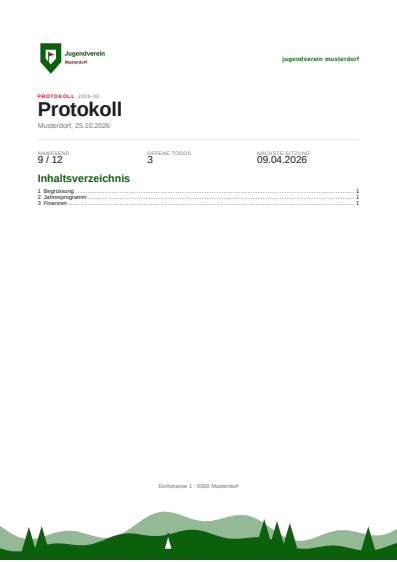
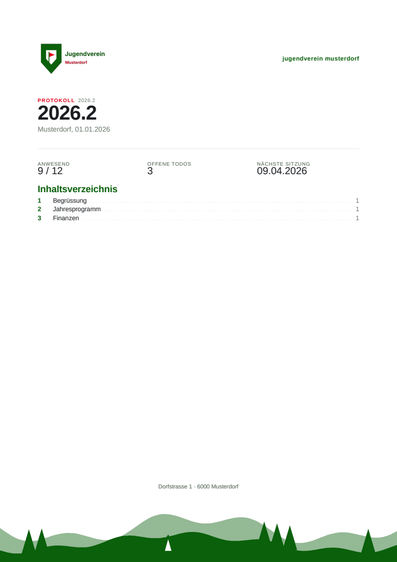
feat(documents): Design «Kreide» näher am Mockup «Protokoll Template v2»
- Grundstil: Aufzählungen mit Punkten statt Strichen.
- Beispiel-Vorlage/-CD: Traktandentitel in Textfarbe mit grüner Nummer, 14/10.5 pt bei 9.5 pt
  Grundschrift, Abschnittsabstand 6.5 mm; Seitenkopf mit kleingeschriebenem Vereinsnamen und
  «Titel · Datum»; Metadaten, Kennzahlen-Beschriftungen und Adresszeile in der Zweitfarbe;
  Inhaltsverzeichnis mit normalem Zeilenabstand; Abstand Titel/Ort korrigiert; Vorschaubild neu.
- Goldens und Studio-Fixtures neu erzeugt (auch für den neuen Abschnittsabstand aus dem
  vorherigen Commit).

Claude-Session: https://claude.ai/code/session_01BdmXtFtuiEmiViEqhvNPRp

diff --git a/backend/app/documents/examples.py b/backend/app/documents/examples.py
@@ -89,18 +89,22 @@ def _kpi_row(prefix: str, *, box: dict[str, Any], **kwargs: Any) -> dict[str, An
     )
 
 
-def _running_master(prefix: str, *, brand_color: str, line_color: str = "$brand.border", line: float = 0.5, dot: bool = False, page_color: str = "$brand.primary", page_bold: bool = True, background: list[dict[str, Any]] | None = None, upper_name: bool = False) -> dict[str, Any]:
+def _running_master(prefix: str, *, brand_color: str, line_color: str = "$brand.border", line: float = 0.5, dot: bool = False, page_color: str = "$brand.primary", page_bold: bool = True, background: list[dict[str, Any]] | None = None, upper_name: bool = False, lower_name: bool = False, meta_color: str = "$brand.muted", meta_separator: bool = False) -> dict[str, Any]:
     """Kopf «Organisation · Titel · Datum» und Fuss «Nummer · Seite x von y» der Inhaltsseiten.
     Die Teile folgen den Kopf-/Fusszeilen-Schaltern des Brand-Profils bzw. der Vorlage
-    (Organisation = Schalter «Logo», wie das Logo der Standard-Seitenvorlage)."""
+    (Organisation = Schalter «Logo», wie das Logo der Standard-Seitenvorlage). ``meta_separator``:
+    «Titel · Datum» statt zwei Einträgen mit Abstand."""
     name_style: dict[str, Any] = {"size": 8, "weight": "bold", "color": brand_color}
     if upper_name:
         name_style.update(transform="upper", letter_spacing=0.4)
+    elif lower_name:
+        name_style.update(transform="lower", letter_spacing=0.2)
     left: list[dict[str, Any]] = []
     if dot:
         left.append(node("container", f"{prefix}-dot", style={"width": "2.2mm", "height": "2.2mm", **_fill(brand_color, radius=1.1)}, visible_if=when("brand.header_show_logo")))
     left.append(label_text(f"{prefix}-org", bind("organization.name"), role="small", style={"text": name_style}, visible_if=when("brand.header_show_logo")))
-    meta_style = {"size": 8, "align": "right", "color": "$brand.muted"}
+    meta_style = {"size": 8, "align": "right", "color": meta_color}
+    separator = [label_text(f"{prefix}-hdr-sep", lit("·"), role="small", style={"text": meta_style}, visible_if={"op": "all", "items": [when("brand.header_show_title"), when("brand.header_show_date")]})] if meta_separator else []
     header = node(
         "header",
         f"{prefix}-hdr",
@@ -109,10 +113,11 @@ def _running_master(prefix: str, *, brand_color: str, line_color: str = "$brand.
                 "row",
                 f"{prefix}-hdr-row",
                 valign="middle",
-                gap=2,
+                gap=1.5 if meta_separator else 2,
                 children=[
                     *left,
                     label_text(f"{prefix}-hdr-title", bind("document.title"), role="small", style={"width": "fill", "text": meta_style}, visible_if=when("brand.header_show_title")),
+                    *separator,
                     label_text(f"{prefix}-hdr-date", bind("document.date"), role="small", style={"text": meta_style}, visible_if=when("brand.header_show_date")),
                 ],
             ),
@@ -129,7 +134,7 @@ def _running_master(prefix: str, *, brand_color: str, line_color: str = "$brand.
                 f"{prefix}-ftr-row",
                 gap=4,
                 children=[
-                    label_text(f"{prefix}-ftr-number", bind("document.number"), role="small", style={"width": "fill", "text": {"size": 8, "color": "$brand.muted"}}, visible_if=when("brand.footer_show_number")),
+                    label_text(f"{prefix}-ftr-number", bind("document.number"), role="small", style={"width": "fill", "text": {"size": 8, "color": meta_color}}, visible_if=when("brand.footer_show_number")),
                     label_text(f"{prefix}-ftr-text", bind("brand.footer_text"), role="small", style={"width": "fill", "text": {"size": 8, "align": "center", "color": "$brand.muted"}}),
                     node("page_number", f"{prefix}-ftr-page", style={"text": {"size": 8, "color": page_color, **({"weight": "bold"} if page_bold else {})}}, visible_if=when("brand.footer_show_pages")),
                 ],
@@ -154,13 +159,14 @@ def _area(node_id: str, color: str, *, x: float = 0, y: float = 0, width: float 
     return node("container", node_id, style={"width": f"{width:g}mm", "height": f"{height:g}mm", **_fill(color)}, frame={"x": x, "y": y, "width": width, "height": height})
 
 
-def _footer_image(prefix: str) -> dict[str, Any]:
+def _footer_image(prefix: str, *, color: str = "$brand.muted", size: float | None = None) -> dict[str, Any]:
     """Adresszeile und Fussbild (Brand-Profil: Bild «Fusszeile») über die ganze Seitenbreite am
     Seitenende; ohne Fussbild steht die Adresse am unteren Rand."""
+    address_style: dict[str, Any] = {"align": "center", "color": color, **({"size": size} if size else {})}
     return _page_layer(
         f"{prefix}-footer-art",
-        label_text(f"{prefix}-address", bind("organization.address"), role="small", style={"text": {"align": "center", "color": "$brand.muted"}}, frame={"x": 0, "y": 256, "width": 210}, visible_if=exists("brand.footer_image")),
-        label_text(f"{prefix}-address-plain", bind("organization.address"), role="small", style={"text": {"align": "center", "color": "$brand.muted"}}, frame={"x": 0, "y": 280, "width": 210}, visible_if={"op": "not", "item": exists("brand.footer_image")}),
+        label_text(f"{prefix}-address", bind("organization.address"), role="small", style={"text": address_style}, frame={"x": 0, "y": 256, "width": 210}, visible_if=exists("brand.footer_image")),
+        label_text(f"{prefix}-address-plain", bind("organization.address"), role="small", style={"text": address_style}, frame={"x": 0, "y": 280, "width": 210}, visible_if={"op": "not", "item": exists("brand.footer_image")}),
         node("image", f"{prefix}-footer-img", source={"kind": "binding", "path": "brand.footer_image"}, fit="contain", style={"width": "210mm"}, frame={"x": 0, "y": 262, "width": 210, "height": 35, "valign": "bottom"}, visible_if=exists("brand.footer_image")),
     )
 
@@ -238,30 +244,31 @@ def _protocol_band() -> dict[str, Any]:
 
 def _protocol_light() -> dict[str, Any]:
     """Hell: dieselbe Gliederung wie «Farbband», aber weiss mit feinen Linien, Akzent nur in
-    Schrift (Vorlage «Protokoll Template v2»)."""
+    Schrift (Vorlage «Protokoll Template v2»): Name klein geschrieben, Metadaten in der
+    Zweitfarbe, Inhaltsverzeichnis mit Führungspunkten."""
     title_page = {
         "enabled": True,
         "children": [
-            node("row", "tp-head", valign="middle", gap=6, style={"margin_bottom": 10}, children=[
+            node("row", "tp-head", valign="middle", gap=6, style={"margin_bottom": 12}, children=[
                 node("image", "tp-logo", source={"kind": "binding", "path": "brand.logo"}, style={"width": "auto", "height": "18mm"}, visible_if=exists("brand.logo")),
                 text("tp-org", bind("organization.name"), role="small", style={"width": "fill", "text": {"size": 9, "weight": "bold", "color": "$brand.primary", "align": "right", "letter_spacing": 0.4, "transform": "lower"}}),
             ]),
             node("row", "tp-kicker", gap=2, children=[
                 _small("tp-kind", key("docType.protocol"), color="$brand.accent", bold=True, spacing=1),
-                _small("tp-number", bind("document.number"), upper=False),
+                _small("tp-number", bind("document.number"), upper=False, spacing=0.5),
             ]),
-            text("tp-title", bind("document.title"), role="title", style={"text": {"size": 30, "line_height": 1.05, "letter_spacing": -0.4, "color": "$brand.text"}, "margin_top": 2}),
-            text("tp-place-date", bind("organization.place"), lit(", "), bind("document.date"), style={"text": {"size": 10.5, "color": "$brand.muted"}}),
-            node("divider", "tp-line", thickness=0.5, color="$brand.border", style={"margin_top": 6, "margin_bottom": 6}),
-            _kpi_row("tp", box={}, value_color="$brand.text", value_weight="regular"),
+            text("tp-title", bind("document.title"), role="title", style={"text": {"size": 30, "line_height": 1.05, "letter_spacing": -0.6, "color": "$brand.text"}, "margin_top": 2}),
+            text("tp-place-date", bind("organization.place"), lit(", "), bind("document.date"), style={"text": {"size": 10.5, "color": "$brand.muted"}, "margin_top": 4}),
+            node("divider", "tp-line", thickness=0.5, color="$brand.border", style={"margin_top": 9, "margin_bottom": 7}),
+            _kpi_row("tp", box={}, label_color="$brand.secondary", value_color="$brand.text", value_weight="regular"),
             node("spacer", "tp-toc-space", size=4),
-            node("toc", "tp-toc", depth=1, density="compact"),
-            _footer_image("tp"),
+            node("toc", "tp-toc", depth=1, density="normal"),
+            _footer_image("tp", color="$brand.secondary", size=8.5),
         ],
     }
     return content(
         [data("protocol", "protocol_element")],
-        masters=[_running_master("run", brand_color="$brand.primary", page_color="$brand.muted", page_bold=False)],
+        masters=[_running_master("run", brand_color="$brand.primary", page_color="$brand.muted", page_bold=False, lower_name=True, meta_color="$brand.secondary", meta_separator=True)],
         title_page=title_page,
         heading_numbering=True
     )
@@ -500,9 +507,10 @@ EXAMPLES: tuple[DesignExample, ...] = (
     DesignExample(
         "kreide", "protocol", _protocol_light,
         {
-            "colors": _colors("#0A600B", "#4A5D4C", "#E2001A", "#0A600B", text="#1A1D21", muted="#6B7A6D", surface="#F4F6F3", border="#E6EAE4", table_header_background="#FFFFFF", table_header_text="#6B7A6D"),
-            "typography": _typography("liberation_sans"),
-            "layout": {"empty_blocks": "hide"},
+            # Wie im Mockup: Traktandentitel in Textfarbe (nur die Nummer grün), 14/10.5 pt
+            "colors": _colors("#0A600B", "#4A5D4C", "#E2001A", "#1A1D21", text="#1A1D21", muted="#6B7A6D", surface="#F4F6F3", border="#E6EAE4", table_header_background="#FFFFFF", table_header_text="#6B7A6D"),
+            "typography": {**_typography("liberation_sans", base_size=9.5), "size_h1": 14, "size_h2": 10.5, "size_h3": 9.5, "letter_spacing_heading": -0.1},
+            "layout": {"empty_blocks": "hide", "section_gap": 6.5},
             "appearance": {"base": "kreide"},
             "organization": _CLUB_ORGANIZATION,
         },

diff --git a/backend/app/documents/appearance.py b/backend/app/documents/appearance.py
@@ -62,10 +62,10 @@ APPEARANCE_BASES: dict[str, dict[str, Any]] = {
         "layout": {"heading_style": "underline", "table_style": "lines", "radius": 2, "heading_number_style": "badge", "responsible_display": "right"},
         "elements": {"attendance": "grid", "session_date": "box", "finance_balance": "tiles", "kpi_tiles": "filled", "form": "grid", "matrix": "cards_filled", "todo": "checklist", "toc": "leaders", "quote": "box", "text": "plain", "static_text": "note", "bullet_list": "bullets", "image": "card", "chart": "card", "entry_exit": "columns"},
     },
-    # Weiss mit feinen Linien, Akzent nur in Nummern und Kästchen
+    # Weiss mit feinen Linien, Akzent nur in Nummern und Kästchen (Mockup «Protokoll Template v2»)
     "kreide": {
         "layout": {"heading_style": "plain", "table_style": "minimal", "radius": 1.5, "heading_number_style": "accent", "responsible_display": "right"},
-        "elements": {"attendance": "grid", "session_date": "line", "finance_balance": "list", "kpi_tiles": "plain", "form": "grid", "matrix": "cards", "todo": "checklist", "toc": "leaders", "quote": "framed", "text": "plain", "static_text": "accent", "bullet_list": "dashes", "image": "plain", "chart": "plain", "entry_exit": "list"},
+        "elements": {"attendance": "grid", "session_date": "line", "finance_balance": "list", "kpi_tiles": "plain", "form": "grid", "matrix": "cards", "todo": "checklist", "toc": "leaders", "quote": "framed", "text": "plain", "static_text": "accent", "bullet_list": "bullets", "image": "plain", "chart": "plain", "entry_exit": "list"},
     },
     # Kontrastreich und eckig: Farbflächen, Gitter-Tabellen, Status-Pills
     "signal": {

diff --git a/CHANGELOG.md b/CHANGELOG.md
@@ -24,6 +24,15 @@ Installationen aktualisieren können.
   Modus «Experte» ist in «Erweitert» aufgegangen, damit u. a. die Position frei platzierter
   Elemente (z. B. Adresse in einer freien Ebene) wieder bearbeitbar ist; für solche Elemente
   entfallen die wirkungslosen Felder «Abstand oben/unten».
+- PDF: grösserer Abstand zwischen den Traktanden. «Abstand vor Abschnitten» (Corporate Design →
+  Seitenaufbau) hat neu 8 statt 6 mm als Standard (Vorlage «Kompakt»: 5 statt 4 mm). Profile mit
+  dem bisherigen Standardwert bekommen per Migration `0159_brand_section_gap` eine neue Revision
+  mit dem neuen Wert; eigene Werte bleiben, die vorherige Revision lässt sich wiederherstellen.
+- Design «Kreide» näher am Mockup «Protokoll Template v2»: Aufzählungen mit Punkten statt
+  Strichen (Grundstil). Beispiel-Vorlage und -CD: Traktandentitel in Textfarbe mit grüner Nummer,
+  14/10.5 pt bei 9.5 pt Grundschrift; im Seitenkopf der Vereinsname klein geschrieben und
+  «Titel · Datum»; Metadaten, Kennzahlen-Beschriftungen und Adresszeile in der Zweitfarbe;
+  Inhaltsverzeichnis mit normalem Zeilenabstand; neues Vorschaubild.
 - Abhängigkeiten aktualisiert (Dependabot und npm/PyPI): Node 24 LTS in den Frontend-Images und
   der CI (statt 22; das vorgeschlagene Node 26 ist noch kein LTS), Next.js 16.4.3, React 19.3.1,
   TypeScript 6.0, Vitest 5, Recharts 3, Playwright 1.64.1; FastAPI 0.162, SQLAlchemy 2.1,
@@ -32,10 +41,6 @@ Installationen aktualisieren können.
   die aktuellen Hauptversionen (Node-24-Laufzeit). PostgreSQL bleibt bewusst bei 16: der
   Sprung auf 18 braucht ein Upgrade der Datenbank (`pg_upgrade` bzw. Dump/Restore) und ein
   anderes Volume-Layout und wird separat geplant.
-- PDF: grösserer Abstand zwischen den Traktanden. «Abstand vor Abschnitten» (Corporate Design →
-  Seitenaufbau) hat neu 8 statt 6 mm als Standard (Vorlage «Kompakt»: 5 statt 4 mm). Profile mit
-  dem bisherigen Standardwert bekommen per Migration `0159_brand_section_gap` eine neue Revision
-  mit dem neuen Wert; eigene Werte bleiben, die vorherige Revision lässt sich wiederherstellen.
 
 ## [1.2.0] - 2026-10-23
 
